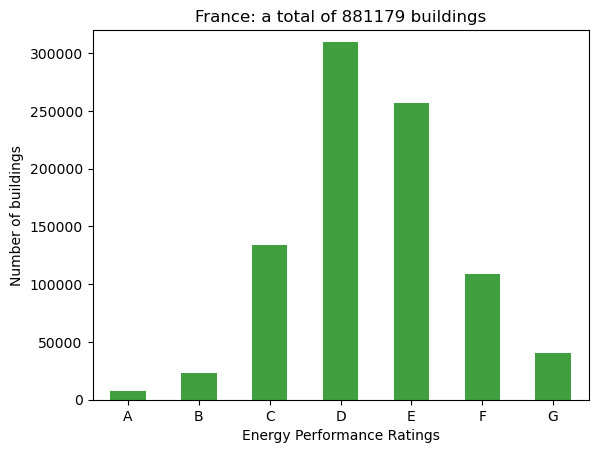
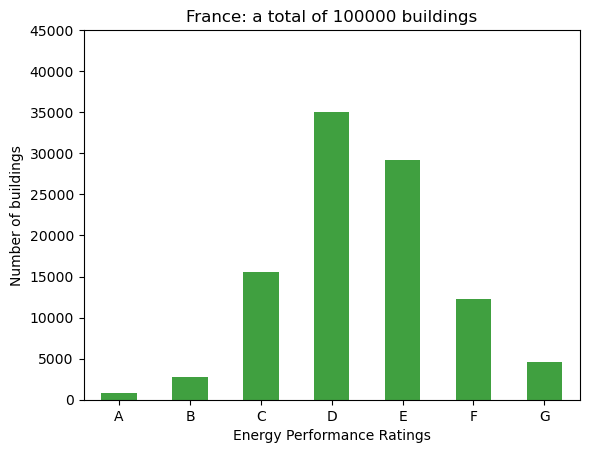
adding france plot with integer values

diff --git a/src/components/navbar.jsx b/src/components/navbar.jsx
@@ -23,7 +23,7 @@ const NavBar = ({ totalCounters }) => {
           <Nav.Link href="/uml">UML representation</Nav.Link>
         </Nav>
       </Navbar.Collapse>
-      <Navbar.Text>v2.0.0</Navbar.Text>
+      <Navbar.Text>v3.0.0</Navbar.Text>
     </Navbar>
   );
 };
